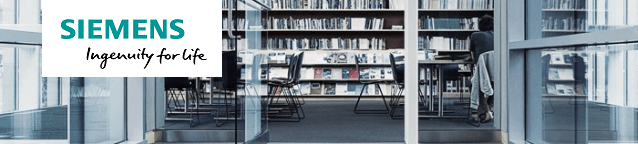
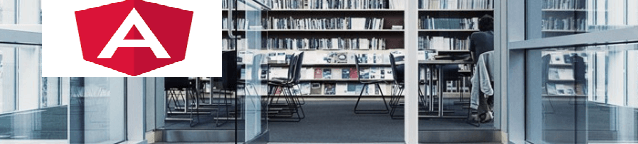
dialog with live updated data

Changed region(s): [[0.0893, 0.0, 0.3276, 0.5278]]

diff --git a/src/app/header/header.component.html b/src/app/header/header.component.html
@@ -7,13 +7,13 @@
           <td style="width:640px;">
             <!-- img [src]="bCollapsed ? 'assets/sie-logo.gif':'assets/headervisual2.png'" #headerVisual  [style.margin-left]="bCollapsed ? '40px' : ''" /-->
             <img src="assets/headervisual2.png" style="margin-left0px;" #headerVisual />
-            <img src="assets/sie-logo.gif"      style="margin-left40px;position:absolute;top:1px;left:40px;" />
+            <img src="assets/wait.1.gif"      style="margin-left40px;position:absolute;top:1px;left:40px;" />
           </td>
           <td style="vertical-align:top;">
             <div style="margin-left:9px;float:left;margin-top:13px;">
-              <strong>UNICO++</strong>
+              <strong>NG++</strong>
               <br>
-              Siemens Database for Research Collaborations
+              NG++ Database for Research Concepts
             </div>
             <div class="headertext" style="float:right;margin:11px;width:80px;font-size:11px;">
                 <img src="assets/person-white.png" />
@@ -34,7 +34,7 @@
     <div class="navbar-header" style="padding-top:1px;color:white;margin-left:33px;">
       <table style="float:left"><tr>
         <td style="vertical-align:bottom;"> <div class="breadcrumb-portal-home" style="padding-left:7px;height:16px;">&nbsp;</div> </td>
-        <td class="headertext" style="vertical-align:top;"> &nbsp; UNICO++ 1.3.9 Test </td>
+        <td class="headertext" style="vertical-align:top;"> &nbsp; NG++ 1.3.9 Test </td>
         <td style="float:left;margin-left:19px;vertical-align:top;">
           <div class="ui-ico-n ui-icon-mail-op-en" style="color:white !important;display:inline;float:left;background:url(assets/pagetools.gif) no-repeat 0 -11px;height:9px;width:19px;margin-top:3px;">
             <a href="mailto:unico@siemens.com">

diff --git a/src/app/header/header.component.ts b/src/app/header/header.component.ts
@@ -90,7 +90,7 @@ export class HeaderComponent implements OnInit, AfterViewInit
   }
   public onHistory() : boolean
   {
-    let header : string = "UNICO++ WebService Call History";
+    let header : string = "NG++ WebService Call History";
 
     if(!header) //if(false) would bring exception "unreachable code detected"
     {
@@ -123,11 +123,11 @@ export class HeaderComponent implements OnInit, AfterViewInit
     let imgs : string = `<img src='assets/arrowExternal.png' style='margin-left:6px;margin-right:3px;' />
                           <img src='assets/file_pdf.png' style='margin-left:3px;margin-right:6px;' />`;
     let txt : string = `
-      <h3>Here you can get information about UNICO++!</h3>
+      <h3>Here you can get information about NG++!</h3>
       <div style='padding-top:6px;padding-bottom:6px;'>
       <div class='linkdiv'><a href="assets/QuickStartGuide_UnicoPlus.pdf" target='_new' data-toggle="tooltip" title="<span style='color:red;'>Open PDF in new window...</span>">
         `+imgs+`
-        UNICO++ manual
+        NG++ manual
       </a></div>
       <div class='linkdiv'><a href="assets/QuickStartGuide_UnicoPlus.pdf" target='_new'>
         `+imgs+`
@@ -144,7 +144,7 @@ export class HeaderComponent implements OnInit, AfterViewInit
       </div>
     `;
 
-    let header : string = "UNICO++ Help";
+    let header : string = "NG++ Help";
     this.dlgService.showDlgMsg(txt, header, null, null);
     
     return false;

diff --git a/src/app/home/home.component.html b/src/app/home/home.component.html
@@ -67,13 +67,13 @@
              pTooltip="Click to View the Quick Start Guide" tooltipPosition="top" icon="fa fa-file-pdf-o">
           </button>
           <div style="height:3px;"> </div>
-          <button #bWHATISUNICO pButton type="button" (click)="onVid('assets/vids/What_Is_UNICO.mp4', bWHATISUNICO)" label="Video: What Is UNICO++?"
+          <button #bWHATISUNICO pButton type="button" (click)="onVid('assets/vids/What_Is_UNICO.mp4', bWHATISUNICO)" label="Video: What Is NG++?"
              class="homebutton"
-             pTooltip="Click to View 'Video: What Is UNICO++'" tooltipPosition="top" icon="fa fa-video-camera"></button>
+             pTooltip="Click to View 'Video: What Is NG++'" tooltipPosition="top" icon="fa fa-video-camera"></button>
           <div style="height:3px;"> </div>
-          <button #bUNICOOVERVIEW pButton type="button" (click)="onVid('assets/vids/UNICO_Overview.mp4', bUNICOOVERVIEW)" label="Video: UNICO++ Overview"
+          <button #bUNICOOVERVIEW pButton type="button" (click)="onVid('assets/vids/UNICO_Overview.mp4', bUNICOOVERVIEW)" label="Video: NG++ Overview"
              class="homebutton"
-             pTooltip="Click to View 'Video: UNICO++ Overview'" tooltipPosition="top" icon="fa fa-video-camera"></button>
+             pTooltip="Click to View 'Video: NG++ Overview'" tooltipPosition="top" icon="fa fa-video-camera"></button>
           <div style="height:3px;"> </div>
         </div>
       </div>

diff --git a/src/index.html b/src/index.html
@@ -4,7 +4,7 @@
   <meta charset="UTF-8">
   <meta name="viewport" content="width=device-width, initial-scale=1">  
   <meta http-equiv="content-type" content="text/html; charset=UTF-8">
-  <title>Unico++</title>
+  <title>NG++</title>
   <meta name="viewport" content="width=device-width, initial-scale=1">
   <link rel="icon" type="image/x-icon" href="assets/favicon.ico">
 </head>
@@ -16,7 +16,7 @@
       <br />
       <br />
       <br />
-      <img src="assets/siemens.ingenuity.png" class="wait" />
+      <img src="assets/wait.1.gif" class="wait" />
     </div>
   </app-root>
 

diff --git a/src/app/info/info.component.html b/src/app/info/info.component.html
@@ -1,6 +1,6 @@
 <div>
 <div style="padding-left:99px;">
-<h2 pTooltip="UNICO++ Proof Of Concept" tooltipPosition="top">UNICO++ Proof Of Concept
+<h2 pTooltip="NG++ Proof Of Concept" tooltipPosition="top">NG++ Proof Of Concept
 </h2>
 <h3 pTooltip="Used Framewowks" tooltipPosition="top">Used Framewowks:</h3>
 </div>

diff --git a/README.md b/README.md
@@ -1,5 +1,5 @@
 # WebApp: ng2PlusPlus
-### with Angular 2.x & PrimeNG; using XML-SOAP Backend WebServices
+### with Angular & PrimeNG; using XML-SOAP Backend WebServices
 ## language: TypeScript, JavaScript
 
 GUI :
@@ -33,3 +33,7 @@ GUI :
 ## Testing with Karma:
 
 ![ng2pluspluskarmatests](https://raw.githubusercontent.com/privet56/ng2PlusPlus/master/ng2plusplus.,karma.tests.png)
+
+## Dialog with Live Updated Data:
+
+![ng2plusplusdialogwithlivedataupdate](https://raw.githubusercontent.com/privet56/ng2PlusPlus/master/ng2plusplus.dlg.with.live.update.gif)
